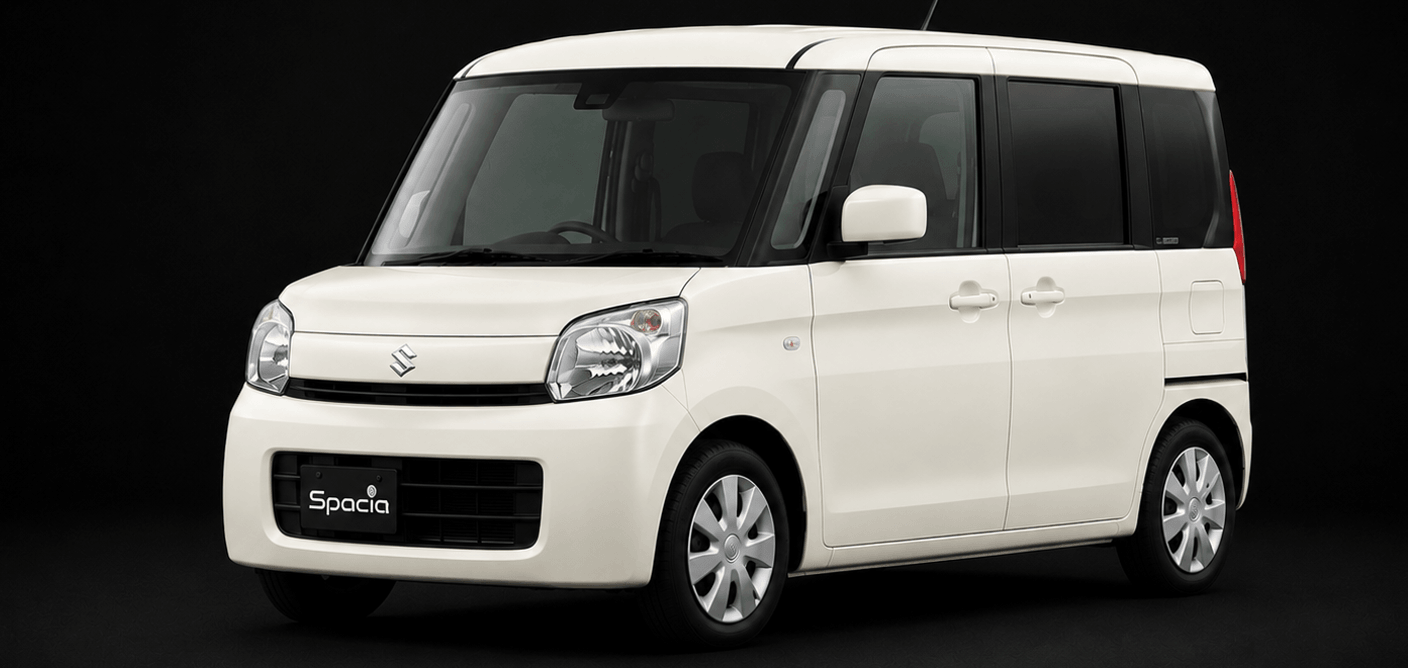
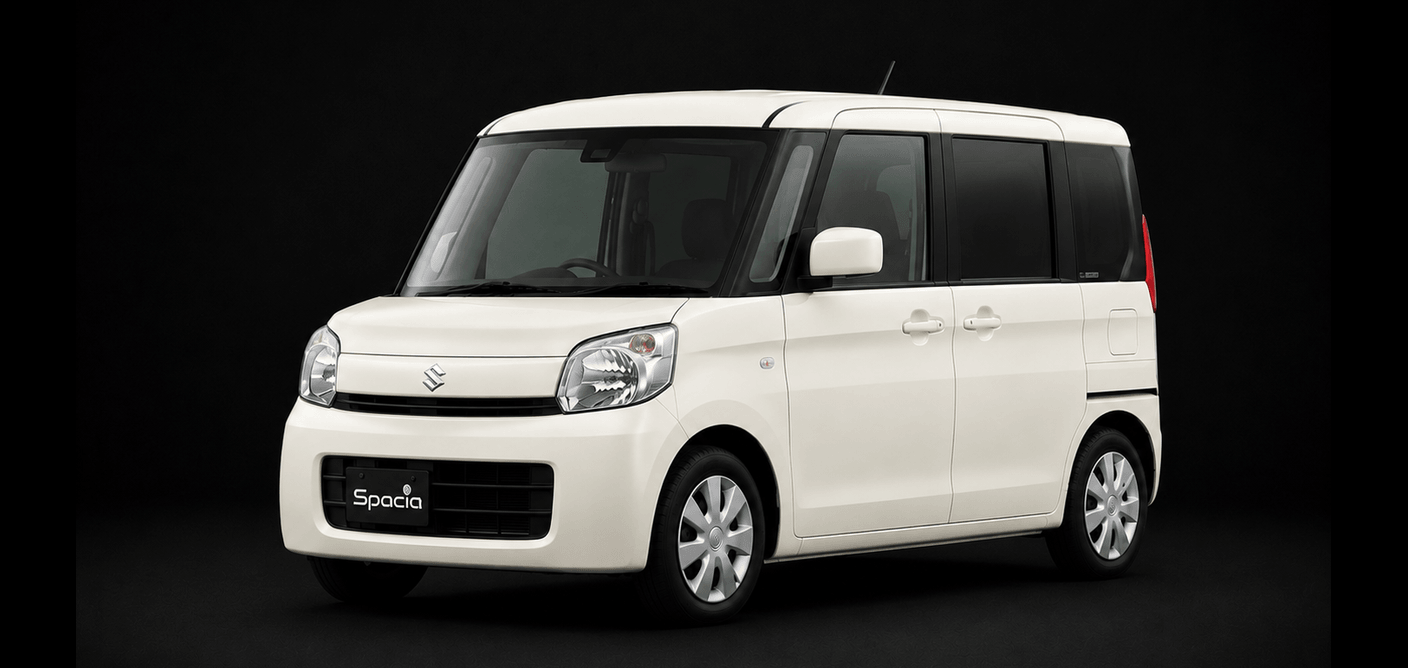
fix: SPACIA car scale/margin, N-BOX+SPACIA annotation coordinates
Re-fixed SPACIA's Timeline scale-matching: the previous fix matched
every generation's car height 1:1 to gen3's raw pixel footprint
(630px in a 668px canvas), leaving only 38px of total margin -- too
tight once floor-anchored, and it clipped gen2's (and even gen3's own)
roof at the very top edge (found by comparing the deployed site's
actual pixel bytes against a rendered simulation of Timeline's crop,
after the previous fix still looked wrong live). Rescaled all three
generations to a smaller, safe reference height (540px) at the same
relative scale, verified with an automated top-strip brightness check
(no bright/car pixels within 15px of the canvas edge) before writing
each file.

Also re-derived every N-BOX and SPACIA annotation dot's x/y against
the corrected images using a percentage-grid overlay, since the car's
position/scale changed enough in the last two fixes that several
dots (headlight/grille callouts especially) no longer landed on the
feature their label names. Verified in-browser that rendered dot
positions match the data exactly.

Changed region(s): [[0.1562, 0.0299, 0.9062, 0.988], [0.6562, 0.8982, 0.6875, 0.9281]]

diff --git a/src/cars/n-box.js b/src/cars/n-box.js
@@ -45,8 +45,8 @@ const generations = [
     period: '2011年〜2017年',
     image: '/images/cars/n-box/gen1-2011.webp',
     annotations: [
-      { x: 34, y: 57, label: 'クロームバー基調の<wbr>フロントグリル', dir: 'bottom', labelX: 32 },
-      { x: 62, y: 20, label: '角型シルエットの<wbr>背の高いボディ', dir: 'top', labelX: 62 },
+      { x: 36, y: 57, label: 'クロームバー基調の<wbr>フロントグリル', dir: 'bottom', labelX: 34 },
+      { x: 60, y: 23, label: '角型シルエットの<wbr>背の高いボディ', dir: 'top', labelX: 60 },
     ],
     facelift: null,
   },
@@ -61,7 +61,7 @@ const generations = [
     image: '/images/cars/n-box/gen2-2017.webp',
     annotations: [
       { x: 33, y: 58, label: '厚みを増した<wbr>クロームグリル', dir: 'bottom', labelX: 31 },
-      { x: 63, y: 18, label: 'より水平基調になった<wbr>ルーフライン', dir: 'top', labelX: 63 },
+      { x: 63, y: 22, label: 'より水平基調になった<wbr>ルーフライン', dir: 'top', labelX: 63 },
     ],
     facelift: null,
   },
@@ -75,8 +75,8 @@ const generations = [
     period: '2023年〜2026年',
     image: '/images/cars/n-box/gen3-2023.webp',
     annotations: [
-      { x: 42, y: 63, label: '人の瞳を想起させる<wbr>丸型LEDヘッドライト', dir: 'bottom', labelX: 40 },
-      { x: 27, y: 68, label: '丸穴デザインの<wbr>フロントグリル', dir: 'bottom', labelX: 25 },
+      { x: 48, y: 61, label: '人の瞳を想起させる<wbr>丸型LEDヘッドライト', dir: 'bottom', labelX: 48 },
+      { x: 32, y: 66, label: '丸穴デザインの<wbr>フロントグリル', dir: 'bottom', labelX: 30 },
     ],
     facelift: null,
   },
@@ -90,8 +90,8 @@ const generations = [
     period: '2026年〜現在',
     image: '/images/cars/n-box/gen3-2026.webp',
     annotations: [
-      { x: 42, y: 60, label: '丸型ヘッドライトの<wbr>親しみやすい表情を継承', dir: 'bottom', labelX: 40 },
-      { x: 65, y: 22, label: '乗る人すべてを包む<wbr>水平基調のデザイン', dir: 'top', labelX: 65 },
+      { x: 49, y: 58, label: '丸型ヘッドライトの<wbr>親しみやすい表情を継承', dir: 'bottom', labelX: 49 },
+      { x: 63, y: 24, label: '乗る人すべてを包む<wbr>水平基調のデザイン', dir: 'top', labelX: 63 },
     ],
     // 2026年7月17日、標準モデルの外観言語を維持したまま一部改良を実施
     // (フルモデルチェンジではない -- 型式もJF5/JF6のまま変更なし)。

diff --git a/src/cars/spacia.js b/src/cars/spacia.js
@@ -38,8 +38,8 @@ const generations = [
     period: '2013年〜2017年',
     image: '/images/cars/spacia/gen1-2013.webp',
     annotations: [
-      { x: 33, y: 62, label: '縦基調のクロームバー<wbr>グリル', dir: 'bottom', labelX: 31 },
-      { x: 45, y: 60, label: '丸みを帯びた<wbr>ヘッドライト', dir: 'bottom', labelX: 47 },
+      { x: 33, y: 56, label: '縦基調のクロームバー<wbr>グリル', dir: 'bottom', labelX: 31 },
+      { x: 41, y: 56, label: '丸みを帯びた<wbr>ヘッドライト', dir: 'bottom', labelX: 43 },
     ],
     facelift: null,
   },
@@ -53,7 +53,7 @@ const generations = [
     period: '2017年〜2023年',
     image: '/images/cars/spacia/gen2-2017.webp',
     annotations: [
-      { x: 42, y: 58, label: 'Sマークを囲む<wbr>クロームグリル', dir: 'bottom', labelX: 40 },
+      { x: 48, y: 53, label: 'Sマークを囲む<wbr>クロームグリル', dir: 'bottom', labelX: 48 },
       { x: 62, y: 20, label: '水平基調に変わった<wbr>ルーフライン', dir: 'top', labelX: 62 },
     ],
     facelift: null,
@@ -68,8 +68,8 @@ const generations = [
     period: '2023年〜現在',
     image: '/images/cars/spacia/gen3-2023.webp',
     annotations: [
-      { x: 45, y: 55, label: 'Sマークを大きく掲げる<wbr>クロームグリル', dir: 'bottom', labelX: 43 },
-      { x: 25, y: 60, label: 'シャープな造形の<wbr>ヘッドライト', dir: 'bottom', labelX: 23 },
+      { x: 48, y: 50, label: 'Sマークを大きく掲げる<wbr>クロームグリル', dir: 'bottom', labelX: 48 },
+      { x: 27, y: 53, label: 'シャープな造形の<wbr>ヘッドライト', dir: 'bottom', labelX: 27 },
     ],
     facelift: null,
   },
